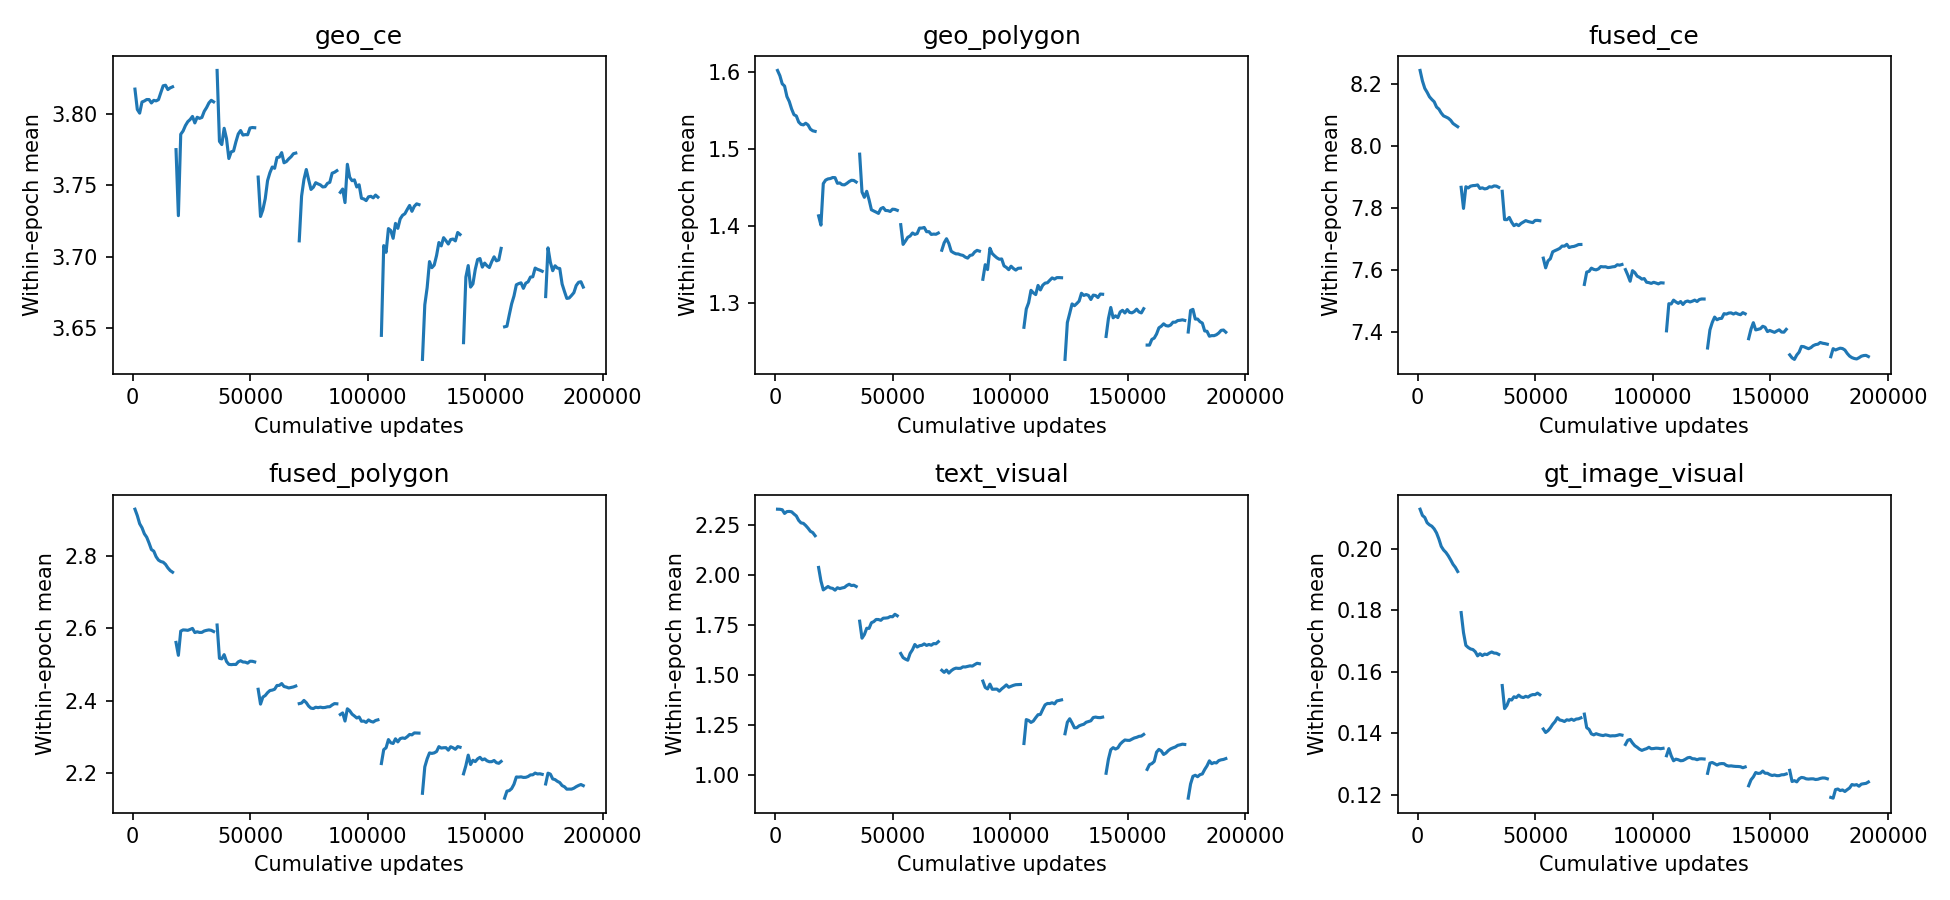
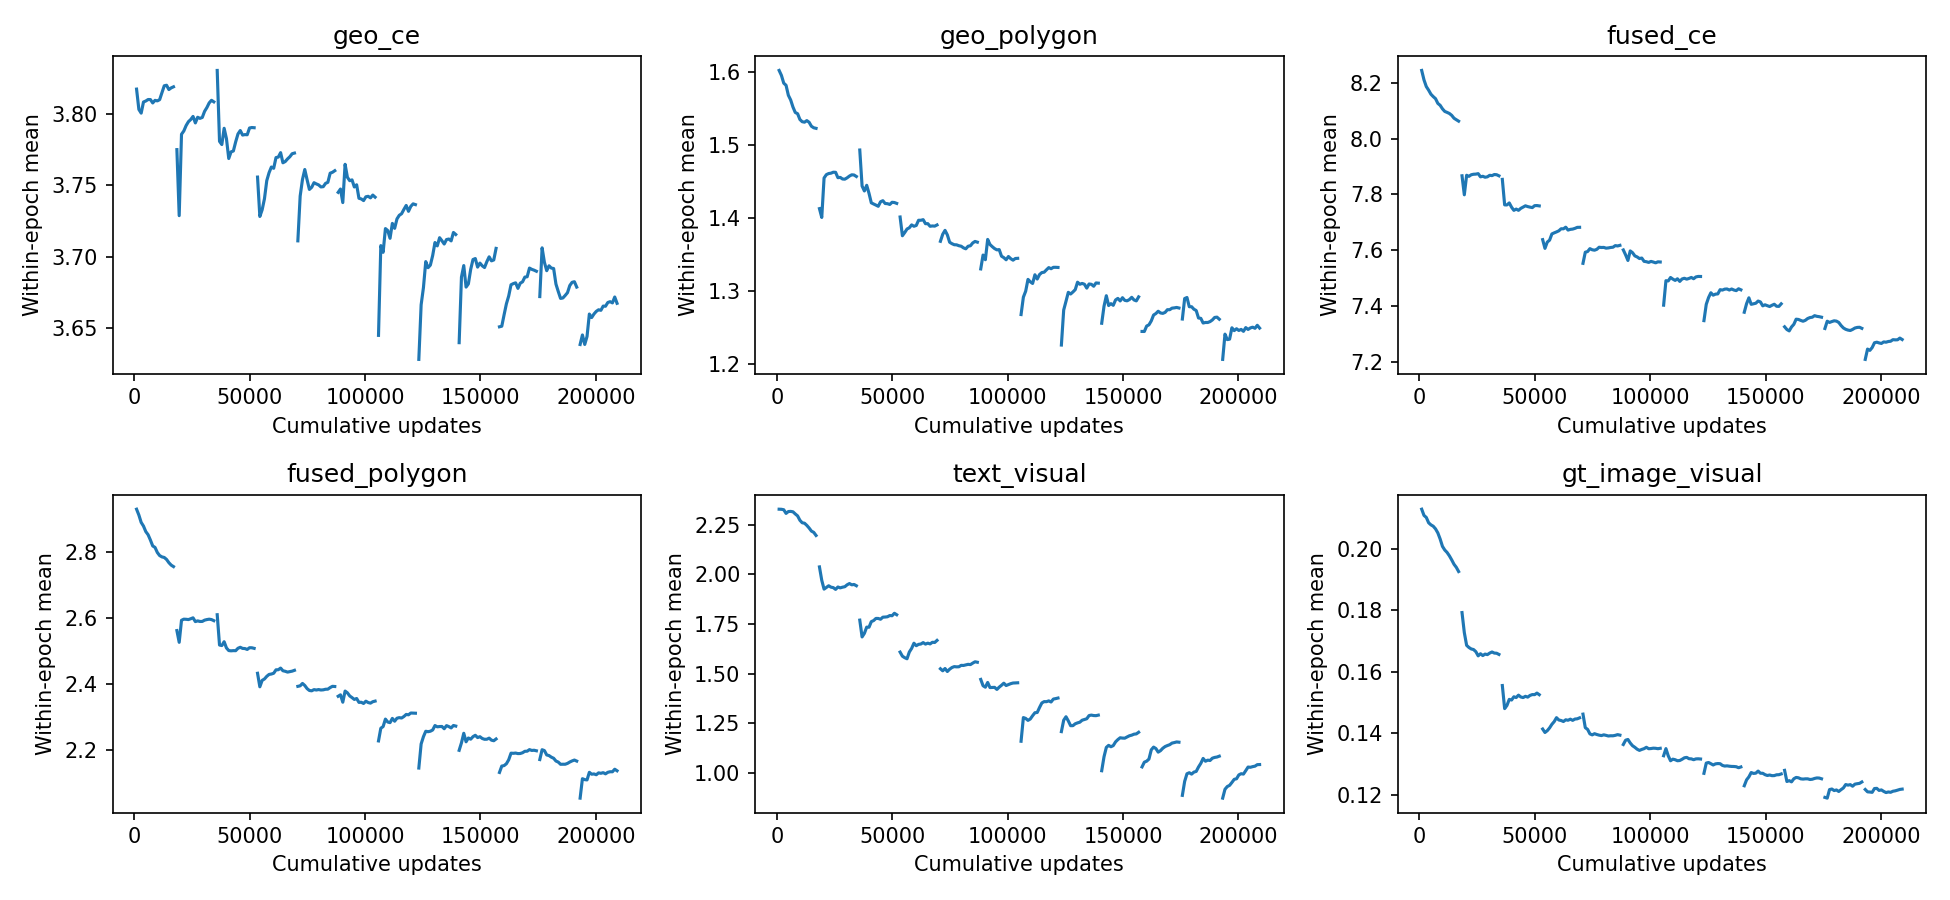
reports(v3): record twelve completed full training epochs

diff --git a/reports/unified_pgvb/v3_full_training/REPORT_zh.md b/reports/unified_pgvb/v3_full_training/REPORT_zh.md
@@ -2,7 +2,7 @@
 
 完整TRAIN输入21878条；本阶段拟合17473条、物理目标留出4405条，物理分组重叠0。初始化V2曾使用TRAIN，内部留出不是完全未见泛化。
 
-当前已完成完整Epoch：11；训练结束：False。
+当前已完成完整Epoch：12；训练结束：False。
 
 Geometry和轻量视觉模块训练，BERT/SigLIP2冻结并读取缓存；seed42，原权重保留。四小时累计训练预算，至少三轮后连续两轮相对Loss改善<0.5%提前停止。未修改Stop=0.3、1mm守卫或Horizon。
 
@@ -21,6 +21,7 @@ Geometry和轻量视觉模块训练，BERT/SigLIP2冻结并读取缓存；seed42
 |9|17473|12.195989|776.39|0.144|
 |10|17473|12.112471|775.50|0.144|
 |11|17473|12.039329|765.39|0.144|
+|12|17473|11.966297|761.70|0.144|
 
 ![训练Loss](training_loss.png)
 ![Loss分量](loss_components.png)
